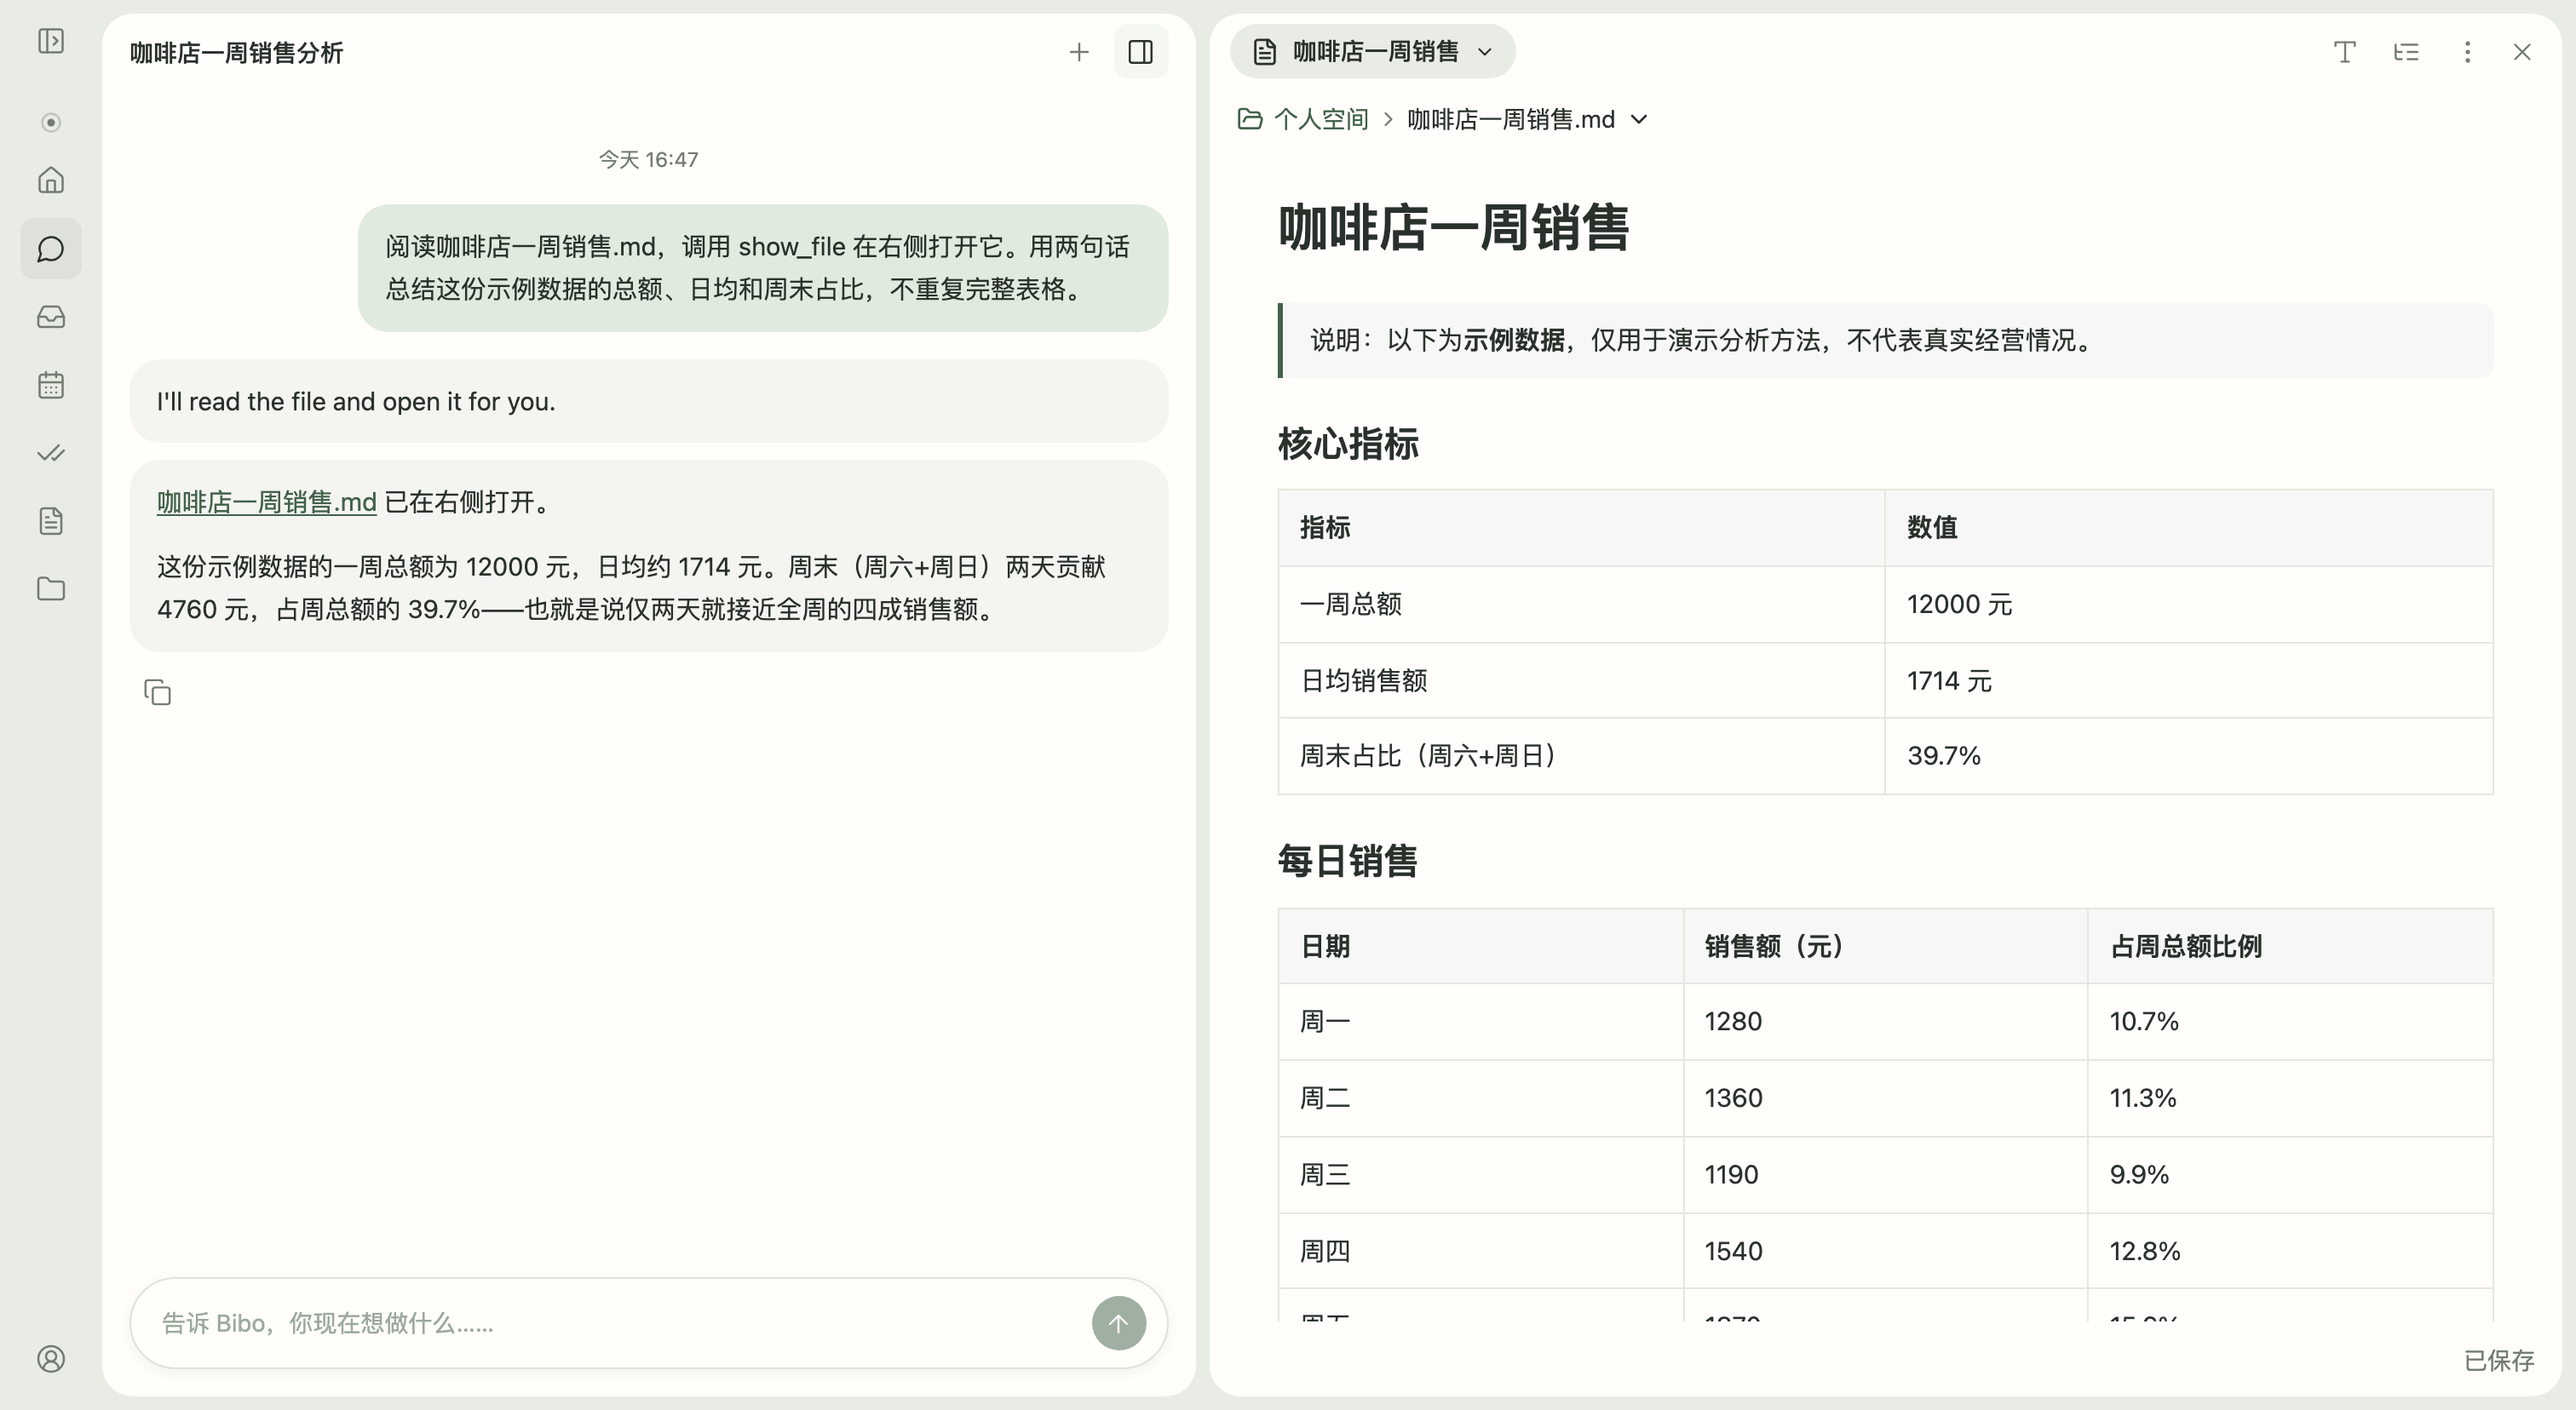
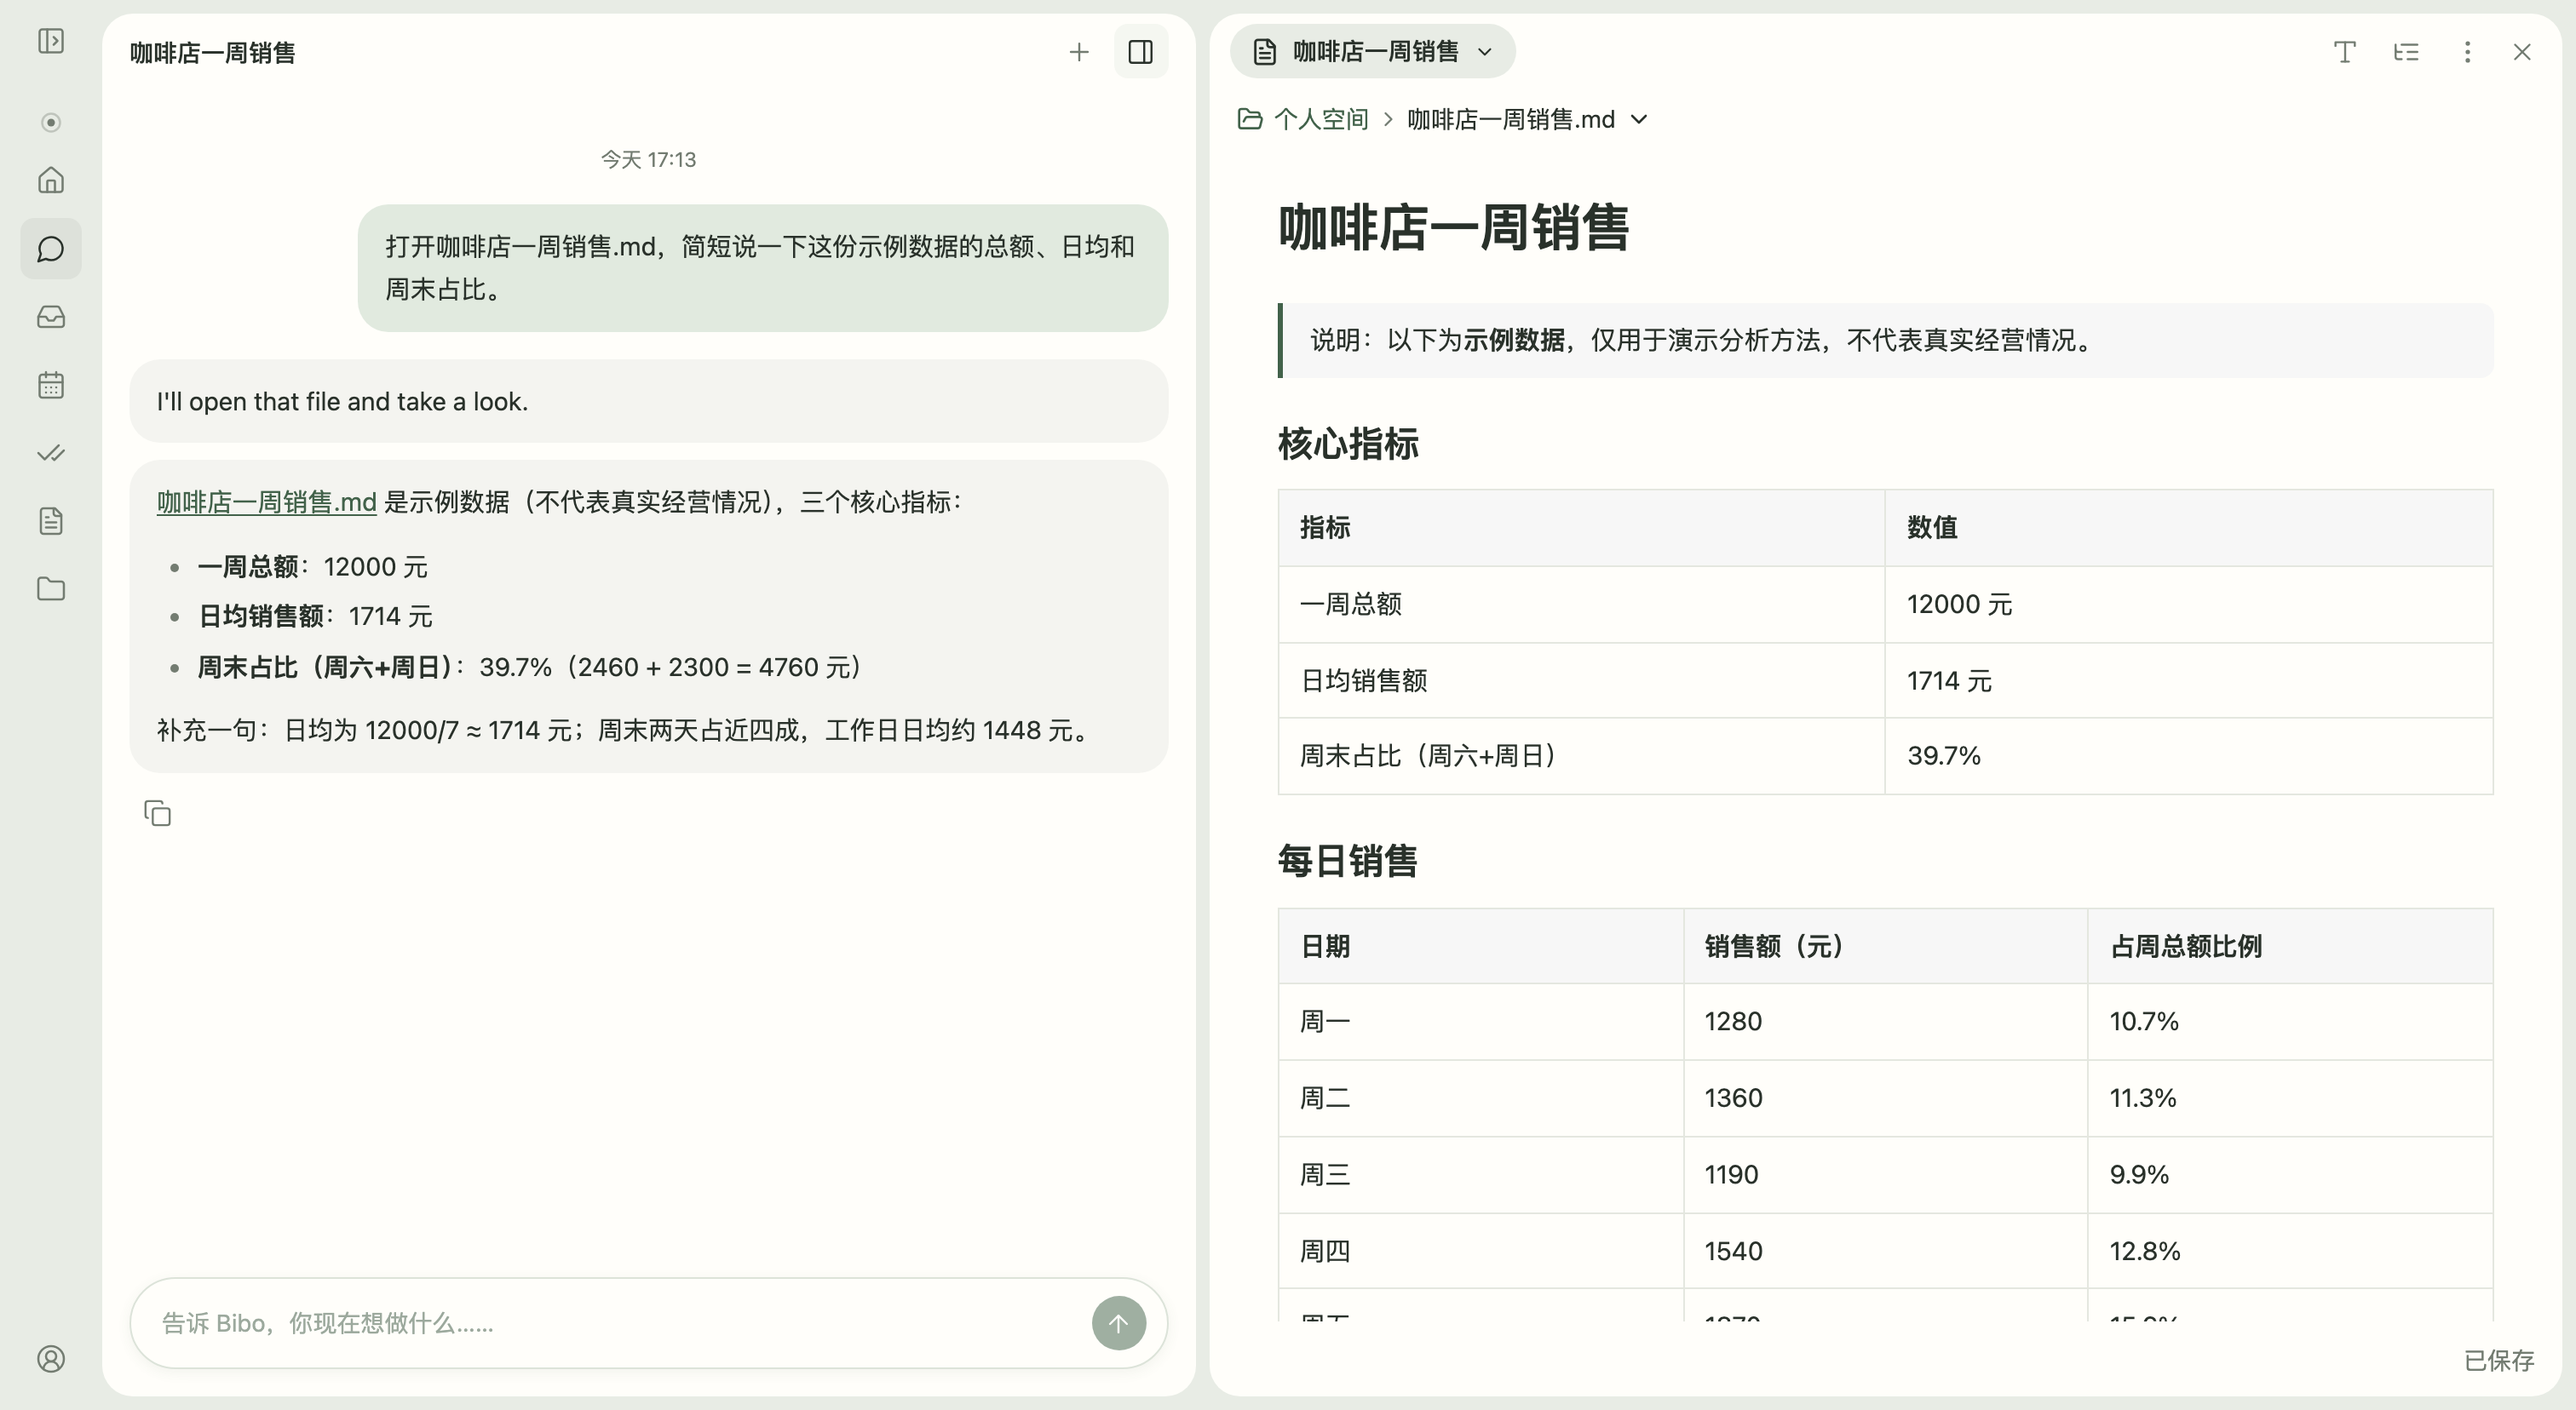
docs(bibo): lead with real execution and desktop/mobile gallery

diff --git a/scripts/bibo/open-source/README.md b/scripts/bibo/open-source/README.md
@@ -1,16 +1,52 @@
 # Bibo
 
-**Your personal AI workspace, with a real Linux sandbox and low infrastructure overhead.**
+**An open-source personal AI workspace with a real Linux sandbox.**
 
 [中文](README.zh-CN.md) · [Try hosted Bibo](https://app.bibo.bot) · [Website](https://bibo.bot) · [Releases](https://github.com/Peiiii/bibo/releases)
 
-Bibo brings conversations, notes, tasks, a calendar, files and an attention inbox into one workspace. Ask your agent to do something, inspect the result, edit it yourself, and continue working together.
-
-The agent runs on Cloudflare's edge. A real, isolated Linux sandbox starts **when OS tools are used**: execute Python or shell commands, work with tools, and generate files. Ordinary chat, tasks and file operations do not need a container. Persistent files live in R2 and can be mounted into the sandbox; the temporary Linux environment can sleep without taking your personal files with it.
+Ask Bibo to process a spreadsheet, keep the report, and save the next steps as tasks. Conversations, notes, tasks, a calendar and files share one workspace.
 
 ![Bibo conversation beside a saved coffee-shop sales report, using clearly labelled example data](images/screenshots/bibo-chat-report.png)
 
-**From a request to something you can keep.** In this example, Python calculated a week's sales inside the Linux sandbox. Bibo saved the report in the persistent workspace, reopened it alongside the conversation, and created editable follow-up tasks. The sales figures are example data; the execution, saved file and tasks are real.
+- **Execute work:** start an isolated Linux sandbox on demand for Python, shell commands and CLI tools.
+- **Keep the result:** R2 files can be mounted in the sandbox, reopened in the web app and edited.
+- **Keep ordinary work lightweight:** chat, tasks and file operations run on Cloudflare's edge without an always-running Linux container.
+
+## See it in use
+
+These are real screenshots of hosted Bibo. Sales and order figures are example data; code execution, saved files and tasks are real.
+
+### Clean orders with Python
+
+Read a CSV, remove two duplicate rows and add an amount column. The result is five orders, nine items and a total of 214. The saved report records the Linux and Python versions read during execution.
+
+![Real order-cleaning conversation beside a saved report with calculated results and Linux/Python environment details](images/screenshots/bibo-sandbox-execution.png)
+
+### Reopen and edit your files
+
+The original CSV, cleaned CSV and Markdown report remain in your personal file space. Search, open and edit them in the workspace.
+
+![Search results for the order-cleaning folder with the saved cleaned CSV open](images/screenshots/bibo-file-workspace.png)
+
+### Save the next steps
+
+The sales example produced editable tasks for weekend preparation, investigating slow days and a review next week.
+
+![Three saved follow-up tasks with an editable weekend preparation task and its description](images/screenshots/bibo-tasks.png)
+
+### Continue on your phone
+
+<p>
+  <img src="images/screenshots/bibo-mobile-chat.png" alt="Bibo conversation and report summary on a phone" width="280" />
+  <img src="images/screenshots/bibo-mobile-tasks.png" alt="Saved Bibo tasks on a phone" width="280" />
+</p>
+
+<details>
+<summary>See the saved sales report</summary>
+
+![Saved sales report with example-data notice and calculated totals, opened in Bibo's file editor](images/screenshots/bibo-sandbox-analysis.png)
+
+</details>
 
 ## Get started locally
 
@@ -57,16 +93,6 @@ For local Worker development, put those secrets in gitignored `apps/bibo-hosted/
 - Ask: “Create a Markdown note summarizing our discussion, save it and open it.” Refresh and reopen the same file.
 - Ask: “Use Python in your Linux sandbox to calculate the first 20 Fibonacci numbers. Mount my workspace and save the result as `fibonacci.txt`, then open that file.” Bibo uses `exec` and `mount_directory`; the saved file belongs to the same R2 workspace the UI reads.
 - Refresh or leave the page while a task runs, then return to its conversation. The page subscribes to the server-owned run; leaving the page does not cancel it. Single runs are bounded to 10 minutes, and an interrupted server run is reported rather than silently replayed.
-
-### Keep the report, then act on it
-
-The saved report opens as an editable document. It remains in your personal file space after the temporary Linux environment is reclaimed.
-
-![Saved sales report with example-data notice and calculated totals, opened in Bibo's file editor](images/screenshots/bibo-sandbox-analysis.png)
-
-Follow-up actions are saved tasks you can inspect and edit, including their priority and description.
-
-![Three saved follow-up tasks with an editable weekend preparation task and its description](images/screenshots/bibo-tasks.png)
 
 ## Architecture
 

diff --git a/scripts/bibo/open-source/README.zh-CN.md b/scripts/bibo/open-source/README.zh-CN.md
@@ -1,16 +1,52 @@
 # Bibo
 
-**带真实 Linux 沙箱、运行成本轻量的个人 AI 工作空间。**
+**开源个人 AI 工作空间，带真正能跑代码的 Linux 沙箱。**
 
 [English](README.md) · [在线体验](https://app.bibo.bot) · [官网](https://bibo.bot) · [版本发布](https://github.com/Peiiii/bibo/releases)
 
-在同一个空间里与 AI 讨论、管理任务和日程、编辑笔记、保存文件。需要真正执行工作时，Bibo 可以获取隔离的 Linux 沙箱，运行 Python、Shell 和命令行工具，并生成可打开的文件产物。
-
-日常对话、任务和普通文件读写在 Cloudflare 边缘完成，不启动容器；只有操作系统工具需要沙箱。个人文件保存在 R2，沙箱可挂载同一份文件。临时执行环境回收，持久文件仍然保留。这是“低运行开销”和“真实执行能力”能够结合的关键。
+让 Bibo 处理一份表，留下报告，再把后续行动存成待办。对话、笔记、任务、日程和文件都在同一个空间里。
 
 ![在对话旁打开保存的咖啡店销售报告，报告清楚标明示例数据](images/screenshots/bibo-chat-report.png)
 
-**交办一件事，留下可继续使用的成果。** 这个例子中，Python 在 Linux 沙箱里计算了一周销售数据，Bibo 把报告保存到个人文件空间，在对话旁重新打开，并创建了三个可编辑的后续待办。销售数字是示例数据；执行、保存的报告和待办都来自真实运行。
+- **能执行：** 按需启动隔离的 Linux 沙箱，运行 Python、Shell 和命令行工具。
+- **能留下成果：** 文件保存在 R2，同一份文件可供沙箱处理、网页打开和编辑。
+- **日常开销轻：** 普通对话、任务和文件操作在 Cloudflare 边缘完成，无需常驻 Linux 容器。
+
+## 看看实际使用
+
+以下都是线上真实截图。销售和订单数字为示例数据，代码执行、文件保存和待办创建来自真实运行。
+
+### 用 Python 整理订单
+
+读取 CSV，删除两行完全重复的记录，新增金额列。结果是 5 笔订单、9 件商品、总额 214；说明记录了沙箱实际运行的 Linux 与 Python 版本。
+
+![真实订单清洗对话与打开的说明，包含计算结果和 Linux、Python 环境信息](images/screenshots/bibo-sandbox-execution.png)
+
+### 文件可以重新打开、继续编辑
+
+原表、清理后的 CSV 和 Markdown 说明保存在个人文件空间，可以搜索、打开和编辑。
+
+![搜索订单整理文件夹并打开实际保存的清理后 CSV](images/screenshots/bibo-file-workspace.png)
+
+### 把后续行动留下来
+
+销售分析后的备货、检查低谷原因和下周复盘，保存为可编辑的任务。
+
+![三个已保存的后续待办，以及周末备货任务的编辑详情](images/screenshots/bibo-tasks.png)
+
+### 手机也能接着用
+
+<p>
+  <img src="images/screenshots/bibo-mobile-chat.png" alt="手机上的 Bibo 对话与报告摘要" width="280" />
+  <img src="images/screenshots/bibo-mobile-tasks.png" alt="手机上的已保存任务列表" width="280" />
+</p>
+
+<details>
+<summary>查看保存后的完整销售报告</summary>
+
+![文件编辑器中的销售报告，包含示例数据说明和计算结果](images/screenshots/bibo-sandbox-analysis.png)
+
+</details>
 
 ## 本地看看
 
@@ -58,16 +94,6 @@ pnpm dev
 > 用 Linux 沙箱里的 Python 计算前 20 个斐波那契数。挂载我的工作空间，把结果保存为 fibonacci.txt，然后打开文件。
 
 Agent 通过 `exec` 执行、`mount_directory` 挂载持久文件；网页读取同一份 R2 文件。生成时可离开或刷新页面，回来继续查看同一次服务端任务。单次任务最长 10 分钟，服务中断会明确报错，不自动重放已有副作用的操作。
-
-### 保存报告，继续行动
-
-保存后的报告可以打开和编辑。临时 Linux 环境回收后，个人文件空间中的报告仍然保留。
-
-![文件编辑器中的销售报告，包含示例数据说明和计算结果](images/screenshots/bibo-sandbox-analysis.png)
-
-后续行动保存在任务列表里，可以查看和修改优先级、说明。
-
-![三个已保存的后续待办，以及周末备货任务的编辑详情](images/screenshots/bibo-tasks.png)
 
 ## 架构与成本
 

diff --git a/docs/plans/2026-10-04-bibo-promotion.plan.md b/docs/plans/2026-10-04-bibo-promotion.plan.md
@@ -5,9 +5,10 @@
 ## 素材
 
 - 主图展示真实对话与保存后的报告，使用示例数据，清楚区分示例数据和真实执行。
-- 第二张展示 Linux 沙箱处理数据后生成的文件；第三张展示可继续编辑的任务。
+- 2026-10-04 用户纠偏：首轮三张图集中在同一个销售案例，覆盖不足。补充真实 CSV 订单清洗、文件搜索与打开、手机对话和手机任务；首屏压缩介绍文字，使用画面置于安装部署说明之前。
+- 订单清洗使用七行示例 CSV，实际 Python 去重两行，得到五笔订单、九件商品和金额 214；截图须同时展示结果与实际运行环境，文件画面使用真实搜索排除无关诊断文件。
 - 保留原沙箱执行记录作为技术证据，将它从宣传首图移到实现说明。
-- 统一使用默认主题、1512 × 828 CSS 像素、2x 输出，不改造截图中的产品界面。
+- 统一使用默认主题；桌面 1512 × 828、手机 390 × 844 CSS 像素，均 2x 输出，不改造截图中的产品界面。
 - README 英文与中文说明均由 `scripts/bibo/open-source/` 拥有，新增图片同步进入导出合同。
 
 ## 发布与核验
